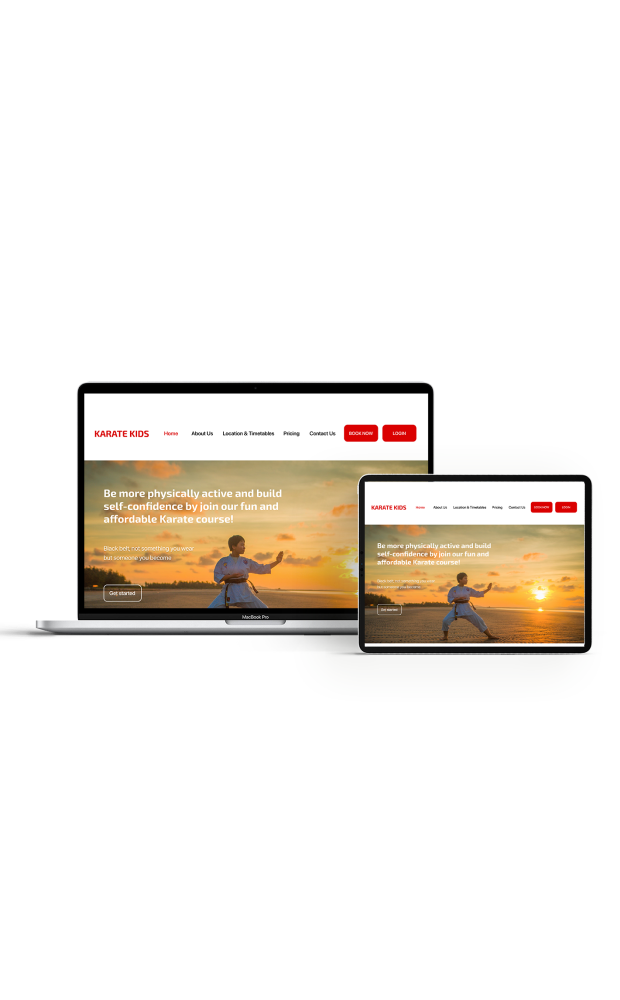
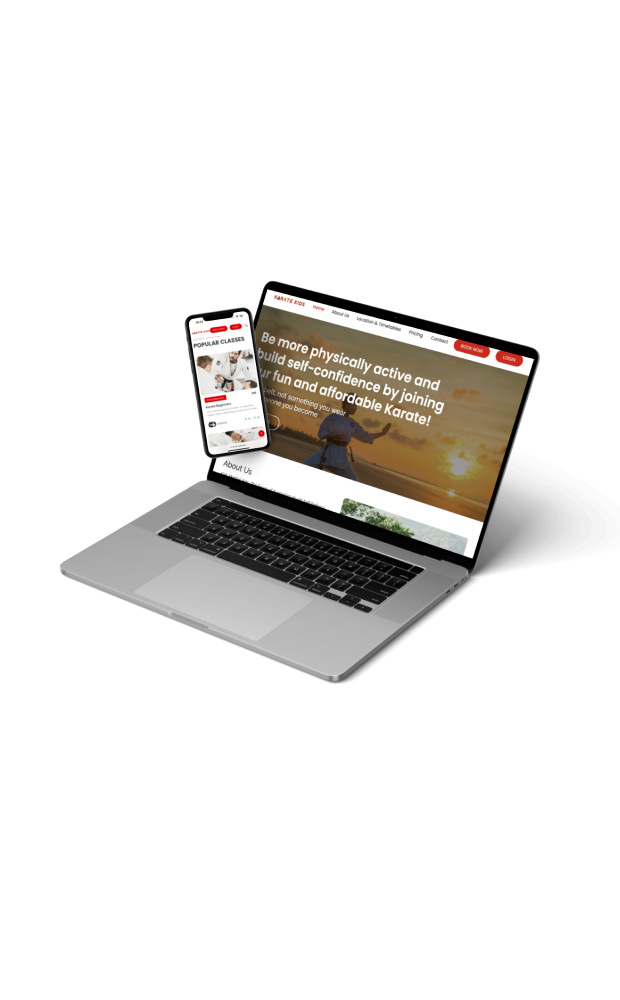
addgallery

Changed region(s): [[0.0, 0.279, 0.9806, 0.682]]

diff --git a/index.html b/index.html
@@ -44,7 +44,7 @@
       <nav id="navbar" class="navbar">
         <ul>
           <li><a class="nav-link scrollto active" href="#hero">Home</a></li>
-          <li><a class="nav-link scrollto" href="https://drive.google.com/file/d/1kuGWcXMLqwizvkieBZCLBdc7P0s9wW0M/view?usp=sharing">Portfolio</a></li>
+          <li><a class="nav-link scrollto" href="https://drive.google.com/file/d/1KdkGAWMncX63FLzDhz_ZVShs5zAp_-t9/view?usp=sharing">Portfolio</a></li>
           <li><a class="nav-link scrollto" href="https://drive.google.com/file/d/16TJingFlqya1efw3C9wmIw4R-0Cs62Qy/view?usp=sharing">Resume</a></li>
           <li><a class="nav-link scrollto" href="#contact">Contact</a></li>
         </ul>
@@ -123,7 +123,32 @@
 
     </section><!-- End Get Started Section -->
 
-   
+    <!-- ======= Screenshots Section ======= -->
+    <section id="screenshots" class="padd-section text-center">
+
+      <div class="container" data-aos="fade-up">
+        <div class="section-title text-center">
+          <h2>Design Gallery</h2>
+          <p class="separator"> </p>
+        </div>
+
+        <div class="screens-slider swiper">
+          <div class="swiper-wrapper align-items-center">
+            <div class="swiper-slide"><img src="assets/img/screen/1.jpg" class="img-fluid" alt=""></div>
+            <div class="swiper-slide"><img src="assets/img/screen/2.jpg" class="img-fluid" alt=""></div>
+            <div class="swiper-slide"><img src="assets/img/screen/3.jpg" class="img-fluid" alt=""></div>
+            <div class="swiper-slide"><img src="assets/img/screen/4.jpg" class="img-fluid" alt=""></div>
+            <div class="swiper-slide"><img src="assets/img/screen/5.jpg" class="img-fluid" alt=""></div>
+            <div class="swiper-slide"><img src="assets/img/screen/6.jpg" class="img-fluid" alt=""></div>
+            <div class="swiper-slide"><img src="assets/img/screen/7.jpg" class="img-fluid" alt=""></div>
+            <div class="swiper-slide"><img src="assets/img/screen/8.jpg" class="img-fluid" alt=""></div>
+            <div class="swiper-slide"><img src="assets/img/screen/9.jpg" class="img-fluid" alt=""></div>
+          </div>
+          <div class="swiper-pagination"></div>
+        </div>
+      </div>
+
+    </section><!-- End Screenshots Section -->
 
     <!-- ======= Contact Section ======= -->
     <section id="contact" class="padd-section">
@@ -223,7 +248,7 @@
         <div class="col-sm-6 col-md-3 col-lg-2">
           <div class="list-menu">
 
-            <h4><a class="footer-anchor-link" href="https://drive.google.com/file/d/1kuGWcXMLqwizvkieBZCLBdc7P0s9wW0M/view?usp=sharing">Portfolio</a></h4>
+            <h4><a class="footer-anchor-link" href="https://drive.google.com/file/d/1KdkGAWMncX63FLzDhz_ZVShs5zAp_-t9/view?usp=sharing">Portfolio</a></h4>
 
       
 

diff --git a/gov.html b/gov.html
@@ -44,7 +44,7 @@
       <nav id="navbar" class="navbar">
         <ul>
           <li><a class="nav-link scrollto" href="index.html">Home</a></li>
-          <li><a class="nav-link scrollto active" href="https://drive.google.com/file/d/1kuGWcXMLqwizvkieBZCLBdc7P0s9wW0M/view?usp=sharing">Portfolio</a></li>
+          <li><a class="nav-link scrollto active" href="https://drive.google.com/file/d/1KdkGAWMncX63FLzDhz_ZVShs5zAp_-t9/view?usp=sharing">Portfolio</a></li>
           <li><a class="nav-link scrollto" href="https://drive.google.com/file/d/16TJingFlqya1efw3C9wmIw4R-0Cs62Qy/view?usp=sharing">Resume</a></li>
           <li><a class="nav-link scrollto" href="#contact">Contact</a></li>
         </ul>
@@ -280,7 +280,7 @@
         <div class="col-sm-6 col-md-3 col-lg-2">
           <div class="list-menu">
 
-            <h4><a class="footer-anchor-link" href="https://drive.google.com/file/d/1kuGWcXMLqwizvkieBZCLBdc7P0s9wW0M/view?usp=sharing">Portfolio</a></h4>
+            <h4><a class="footer-anchor-link" href="https://drive.google.com/file/d/1KdkGAWMncX63FLzDhz_ZVShs5zAp_-t9/view?usp=sharing">Portfolio</a></h4>
 
       
 

diff --git a/kk.html b/kk.html
@@ -44,7 +44,7 @@
       <nav id="navbar" class="navbar">
         <ul>
           <li><a class="nav-link scrollto" href="index.html">Home</a></li>
-          <li><a class="nav-link scrollto active" href="https://drive.google.com/file/d/1kuGWcXMLqwizvkieBZCLBdc7P0s9wW0M/view?usp=sharing">Portfolio</a></li>
+          <li><a class="nav-link scrollto active" href="https://drive.google.com/file/d/1KdkGAWMncX63FLzDhz_ZVShs5zAp_-t9/view?usp=sharing">Portfolio</a></li>
           <li><a class="nav-link scrollto" href="https://drive.google.com/file/d/16TJingFlqya1efw3C9wmIw4R-0Cs62Qy/view?usp=sharing">Resume</a></li>
           <li><a class="nav-link scrollto" href="#contact">Contact</a></li>
         </ul>
@@ -296,7 +296,7 @@
         <div class="col-sm-6 col-md-3 col-lg-2">
           <div class="list-menu">
 
-            <h4><a class="footer-anchor-link" href="https://drive.google.com/file/d/1kuGWcXMLqwizvkieBZCLBdc7P0s9wW0M/view?usp=sharing">Portfolio</a></h4>
+            <h4><a class="footer-anchor-link" href="https://drive.google.com/file/d/1KdkGAWMncX63FLzDhz_ZVShs5zAp_-t9/view?usp=sharing">Portfolio</a></h4>
 
       
 

diff --git a/two.html b/two.html
@@ -44,7 +44,7 @@
       <nav id="navbar" class="navbar">
         <ul>
           <li><a class="nav-link scrollto" href="index.html">Home</a></li>
-          <li><a class="nav-link scrollto active" href="https://drive.google.com/file/d/1kuGWcXMLqwizvkieBZCLBdc7P0s9wW0M/view?usp=sharing">Portfolio</a></li>
+          <li><a class="nav-link scrollto active" href="https://drive.google.com/file/d/1KdkGAWMncX63FLzDhz_ZVShs5zAp_-t9/view?usp=sharing">Portfolio</a></li>
           <li><a class="nav-link scrollto" href="https://drive.google.com/file/d/16TJingFlqya1efw3C9wmIw4R-0Cs62Qy/view?usp=sharing">Resume</a></li>
           <li><a class="nav-link scrollto" href="#contact">Contact</a></li>
         </ul>
@@ -300,7 +300,7 @@
         <div class="col-sm-6 col-md-3 col-lg-2">
           <div class="list-menu">
 
-            <h4><a class="footer-anchor-link" href="https://drive.google.com/file/d/1kuGWcXMLqwizvkieBZCLBdc7P0s9wW0M/view?usp=sharing">Portfolio</a></h4>
+            <h4><a class="footer-anchor-link" href="https://drive.google.com/file/d/1KdkGAWMncX63FLzDhz_ZVShs5zAp_-t9/view?usp=sharing">Portfolio</a></h4>
 
       
 
